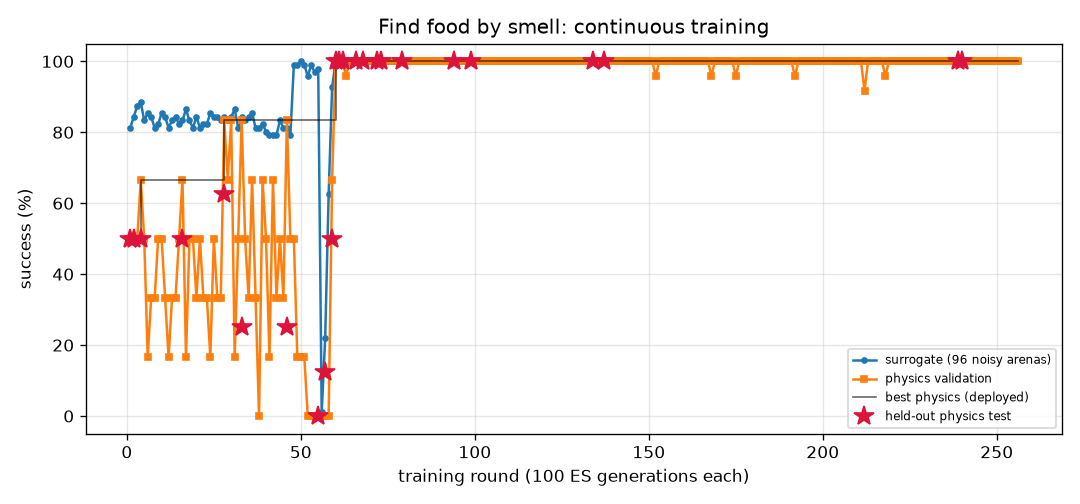
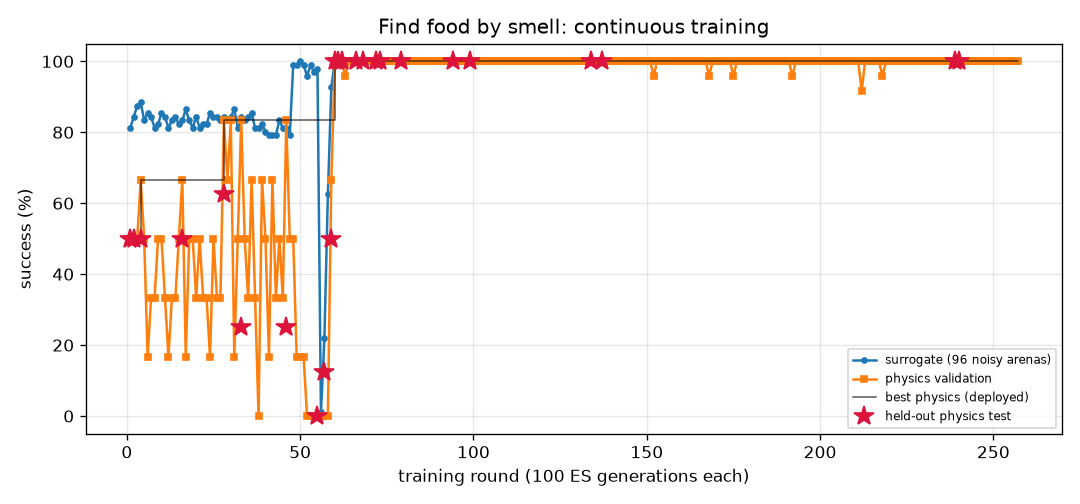
FlyLab: continuous training progress
- walk_forward: optimal, physics val 100% of 24, round 411
- turn: optimal, physics val 100% of 24, round 1110
- goto: optimal, physics val 100% of 24, round 317
- odor_seek: optimal, physics val 100% of 24, round 257
- odor_avoid: optimal, physics val 100% of 24, round 962
- light_seek: optimal, physics val 100% of 24, round 518
- light_avoid: optimal, physics val 100% of 24, round 681

diff --git a/projects/09_flylab/training/turn/REPORT.md b/projects/09_flylab/training/turn/REPORT.md
@@ -1,14 +1,14 @@
 # Turn in place (`turn`) — training report
 
-*Auto-generated by `train_brains.py`, last updated 2026-11-17T21:16:02.*
+*Auto-generated by `train_brains.py`, last updated 2026-11-18T01:04:39.*
 
 ![curve](curve.png)
 
 | | |
 |---|---|
-| rounds | 1107 |
-| ES generations | 110700 |
-| physics runs | 26814 |
+| rounds | 1110 |
+| ES generations | 111000 |
+| physics runs | 26886 |
 | status | **optimal** |
 | best brain | round 80: physics validation **100%** on 24 arenas, surrogate 100% |
 | held-out physics test | **97%** on 32 unseen arenas (95% CI 84%-99%) (errors: [1.6, 3.3, 6.3, 3.7, 1.1, 0.4, 2.4, 2.9, 0.1, 2.6, 0.5, 2.7, 1.5, 3.1, 4.5, 0.2, 0.5, 1.1, 2.0, 4.4, 2.8, 3.2, 0.3, 2.2, 0.5, 3.0, 0.3, 5.4, 0.4, 1.0, 4.7, 10.7]) |
@@ -17,9 +17,6 @@ Physics error per arena: deg from target heading (< 20 = success).
 
 | round | level | gens | sigma | surrogate | physics val | val errors | test | note |
 |---:|---:|---:|---:|---:|---:|---|---:|---|
-| 1068 | 3 | 106800 | 0.025 | 98% | 83% | [3.5, 1.4, 5.0, 0.8, 2.5, 0.1, 6.4, 8.3, 6.2, 1.3, 5.6, 1.0, 2.3, 1.8, 4.7, 0.8, 1.0, 1.9, 0.9, 1.1, 5.2, 2.6, 6.9, 6.9] |  | restart from best |
-| 1069 | 3 | 106900 | 0.024 | 100% | 62% | [4.2, 0.3, 2.8, 0.7, 2.1, 0.0, 5.8, 2.7, 3.5, 0.5, 5.7, 0.1, 1.1, 2.7, 5.1, 0.5, 0.4, 5.1, 1.3, 0.5, 7.6, 2.2, 6.5, 5.2] |  |  |
-| 1070 | 3 | 107000 | 0.024 | 98% | 92% | [9.3, 11.0, 6.5, 6.1, 2.8, 4.0, 2.1, 2.0, 1.8, 2.8, 2.2, 3.9, 4.1, 2.9, 1.8, 1.6, 3.5, 1.2, 1.1, 3.4, 8.1, 0.6, 2.6, 1.7] |  |  |
 | 1071 | 3 | 107100 | 0.025 | 99% | 83% | [4.9, 10.7, 9.2, 3.6, 3.0, 5.7, 4.4, 2.2, 1.8, 1.4, 1.8, 3.5, 1.8, 3.3, 2.2, 0.4, 2.7, 0.9, 2.5, 2.6, 5.7, 0.2, 2.7, 7.0] |  |  |
 | 1072 | 3 | 107200 | 0.025 | 100% | 92% | [2.9, 1.1, 5.8, 3.3, 2.7, 2.2, 5.9, 5.8, 6.4, 1.8, 6.1, 2.2, 1.4, 1.5, 3.5, 2.5, 2.3, 2.7, 2.9, 2.4, 3.4, 1.8, 7.7, 6.3] |  | restart from best |
 | 1073 | 3 | 107300 | 0.024 | 99% | 92% | [3.2, 8.2, 1.1, 3.7, 2.3, 1.3, 3.8, 0.6, 3.9, 1.7, 4.1, 0.7, 2.5, 2.0, 3.5, 1.2, 1.1, 1.2, 1.7, 1.6, 5.8, 0.4, 2.5, 2.4] |  |  |
@@ -57,3 +54,6 @@ Physics error per arena: deg from target heading (< 20 = success).
 | 1105 | 3 | 110500 | 0.024 | 99% | 58% | [4.5, 2.1, 2.8, 1.5, 1.0, 3.4, 7.4, 2.3, 4.9, 1.6, 4.8, 0.9, 0.1, 4.5, 5.2, 0.2, 1.0, 0.5, 0.1, 0.0, 6.7, 1.4, 5.4, 7.2] |  |  |
 | 1106 | 3 | 110600 | 0.025 | 99% | 75% | [1.0, 6.0, 7.3, 1.8, 1.0, 116.5, 8.3, 11.4, 8.8, 1.7, 7.2, 2.9, 0.2, 0.5, 7.0, 4.2, 4.1, 4.1, 5.2, 7.7, 1.9, 3.7, 8.5, 8.3] |  |  |
 | 1107 | 3 | 110700 | 0.025 | 100% | 88% | [3.2, 8.7, 9.7, 6.5, 2.7, 5.6, 9.2, 8.1, 9.6, 4.2, 7.7, 6.8, 5.0, 3.5, 6.9, 4.5, 7.2, 6.5, 3.9, 5.4, 1.6, 6.1, 9.0, 9.3] |  |  |
+| 1108 | 3 | 110800 | 0.024 | 99% | 100% | [11.3, 5.6, 9.5, 1.6, 1.4, 1.7, 7.8, 10.1, 8.9, 13.8, 5.9, 6.8, 2.7, 1.9, 4.9, 13.8, 6.5, 5.2, 12.6, 6.2, 2.6, 5.5, 8.9, 8.7] |  | restart from best |
+| 1109 | 3 | 110900 | 0.024 | 99% | 96% | [6.6, 9.0, 5.4, 4.9, 2.2, 3.4, 2.2, 0.1, 3.1, 0.9, 2.0, 2.4, 0.9, 5.2, 1.8, 2.1, 2.2, 1.6, 2.6, 2.9, 5.4, 0.5, 3.1, 3.2] |  |  |
+| 1110 | 3 | 111000 | 0.025 | 99% | 75% | [2.3, 7.2, 0.6, 1.3, 4.1, 1.6, 5.3, 8.0, 5.8, 0.8, 5.5, 0.9, 3.9, 2.1, 3.7, 2.1, 0.2, 2.1, 7.4, 0.2, 4.8, 3.8, 4.2, 7.0] |  |  |

diff --git a/projects/09_flylab/training/odor_seek/REPORT.md b/projects/09_flylab/training/odor_seek/REPORT.md
@@ -1,14 +1,14 @@
 # Find food by smell (`odor_seek`) — training report
 
-*Auto-generated by `train_brains.py`, last updated 2026-11-18T00:06:28.*
+*Auto-generated by `train_brains.py`, last updated 2026-11-18T00:32:32.*
 
 ![curve](curve.png)
 
 | | |
 |---|---|
-| rounds | 256 |
-| ES generations | 25600 |
-| physics runs | 5638 |
+| rounds | 257 |
+| ES generations | 25700 |
+| physics runs | 5662 |
 | status | **optimal** |
 | best brain | round 240: physics validation **100%** on 24 arenas, surrogate 100% |
 | held-out physics test | **100%** on 32 unseen arenas (95% CI 89%-100%) (errors: [0.02, 0.03, 0.03, 0.05, 0.04, 0.05, 0.06, 0.07, 0.09, 0.05, 0.05, 0.01, 0.12, 0.03, 0.07, 0.08, 0.02, 0.06, 0.03, 0.04, 0.0, 0.01, 0.09, 0.05, 0.04, 0.01, 0.07, 0.05, 0.08, 0.05, 0.05, 0.02]) |
@@ -17,7 +17,6 @@ Physics error per arena: mm from target at the end (< 1.5 and standing still = s
 
 | round | level | gens | sigma | surrogate | physics val | val errors | test | note |
 |---:|---:|---:|---:|---:|---:|---|---:|---|
-| 217 | 3 | 21700 | 0.024 | 100% | 100% | [0.21, 0.18, 0.06, 0.18, 0.12, 0.16, 0.06, 0.14, 0.16, 0.12, 0.11, 0.16, 0.16, 0.14, 0.21, 0.17, 0.16, 0.07, 0.13, 0.15, 0.13, 0.14, 0.2, 0.12] |  | restart from best |
 | 218 | 3 | 21800 | 0.024 | 100% | 96% | [0.16, 0.04, 0.06, 0.03, 0.05, 0.14, 0.11, 0.13, 0.04, 0.06, 0.09, 0.06, 0.05, 15.35, 0.08, 0.13, 0.22, 0.03, 0.07, 0.07, 0.07, 0.06, 0.08, 0.03] |  |  |
 | 219 | 3 | 21900 | 0.024 | 100% | 100% | [0.16, 0.28, 0.18, 0.2, 0.24, 0.22, 0.19, 0.19, 0.19, 0.19, 0.21, 0.26, 0.21, 0.2, 0.12, 0.16, 0.17, 0.26, 0.22, 0.17, 0.24, 0.16, 0.13, 0.23] |  |  |
 | 220 | 3 | 22000 | 0.024 | 100% | 100% | [0.19, 0.22, 0.14, 0.17, 0.24, 0.2, 0.3, 0.19, 0.17, 0.18, 0.13, 0.28, 0.19, 0.21, 0.26, 0.28, 0.18, 0.18, 0.21, 0.26, 0.18, 0.2, 0.21, 0.27] |  |  |
@@ -57,3 +56,4 @@ Physics error per arena: mm from target at the end (< 1.5 and standing still = s
 | 254 | 3 | 25400 | 0.024 | 100% | 100% | [0.04, 0.13, 0.02, 0.09, 0.08, 0.12, 0.12, 0.13, 0.08, 0.08, 0.12, 0.04, 0.06, 0.12, 0.07, 0.18, 0.08, 0.12, 0.09, 0.06, 0.07, 0.16, 0.07, 0.08] |  |  |
 | 255 | 3 | 25500 | 0.024 | 100% | 100% | [0.22, 0.21, 0.13, 0.17, 0.16, 0.21, 0.16, 0.21, 0.15, 0.16, 0.14, 0.24, 0.11, 0.15, 0.23, 0.15, 0.23, 0.13, 0.2, 0.21, 0.21, 0.12, 0.16, 0.13] |  |  |
 | 256 | 3 | 25600 | 0.024 | 100% | 100% | [0.04, 0.18, 0.16, 0.19, 0.19, 0.2, 0.2, 0.17, 0.19, 0.21, 0.2, 0.1, 0.12, 0.14, 0.2, 0.23, 0.1, 0.18, 0.21, 0.19, 0.16, 0.18, 0.1, 0.14] |  | restart from best |
+| 257 | 3 | 25700 | 0.024 | 100% | 100% | [0.16, 0.19, 0.19, 0.13, 0.22, 0.18, 0.16, 0.13, 0.15, 0.12, 0.13, 0.16, 0.16, 0.14, 0.15, 0.12, 0.1, 0.09, 0.19, 0.12, 0.22, 0.19, 0.15, 0.19] |  |  |

diff --git a/projects/09_flylab/training/goto/REPORT.md b/projects/09_flylab/training/goto/REPORT.md
@@ -1,14 +1,14 @@
 # Go to a location (`goto`) — training report
 
-*Auto-generated by `train_brains.py`, last updated 2026-11-18T00:06:20.*
+*Auto-generated by `train_brains.py`, last updated 2026-11-18T00:28:36.*
 
 ![curve](curve.png)
 
 | | |
 |---|---|
-| rounds | 316 |
-| ES generations | 31600 |
-| physics runs | 7534 |
+| rounds | 317 |
+| ES generations | 31700 |
+| physics runs | 7558 |
 | status | **optimal** |
 | best brain | round 176: physics validation **100%** on 24 arenas, surrogate 100% |
 | held-out physics test | **100%** on 32 unseen arenas (95% CI 89%-100%) (errors: [0.2, 0.32, 0.19, 0.24, 0.18, 0.2, 0.19, 0.17, 0.22, 0.23, 0.23, 0.26, 0.2, 0.19, 0.24, 0.23, 0.22, 0.24, 0.2, 0.22, 0.2, 0.2, 0.26, 0.19, 0.22, 0.18, 0.26, 0.22, 0.2, 0.26, 0.23, 0.23]) |
@@ -17,7 +17,6 @@ Physics error per arena: mm from target at the end (< 1.5 and standing still = s
 
 | round | level | gens | sigma | surrogate | physics val | val errors | test | note |
 |---:|---:|---:|---:|---:|---:|---|---:|---|
-| 277 | 3 | 27700 | 0.024 | 100% | 100% | [0.53, 0.52, 0.43, 0.51, 0.41, 0.46, 0.48, 0.53, 0.57, 0.43, 0.43, 0.49, 0.56, 0.46, 0.46, 0.49, 0.55, 0.47, 0.42, 0.56, 0.47, 0.44, 0.54, 0.5] |  |  |
 | 278 | 3 | 27800 | 0.024 | 100% | 100% | [0.57, 0.54, 0.61, 0.56, 0.42, 0.5, 0.55, 0.57, 0.57, 0.47, 0.46, 0.52, 0.59, 0.48, 0.53, 0.5, 0.61, 0.51, 0.44, 0.56, 0.48, 0.48, 0.6, 0.51] |  |  |
 | 279 | 3 | 27900 | 0.024 | 99% | 100% | [0.39, 0.36, 0.29, 0.4, 0.29, 0.36, 0.37, 0.42, 0.41, 0.3, 0.35, 0.39, 0.4, 0.3, 0.28, 0.31, 0.41, 0.36, 0.28, 0.4, 0.29, 0.31, 0.41, 0.39] |  |  |
 | 280 | 3 | 28000 | 0.025 | 99% | 100% | [0.45, 0.39, 0.43, 0.45, 0.36, 0.4, 0.4, 0.43, 0.44, 0.35, 0.38, 0.44, 0.46, 0.31, 0.42, 0.34, 0.47, 0.39, 0.35, 0.48, 0.32, 0.39, 0.41, 0.42] |  | restart from best |
@@ -57,3 +56,4 @@ Physics error per arena: mm from target at the end (< 1.5 and standing still = s
 | 314 | 3 | 31400 | 0.025 | 99% | 100% | [0.68, 0.65, 0.54, 0.52, 0.53, 0.51, 0.67, 0.54, 0.54, 0.51, 0.49, 0.51, 0.63, 0.5, 0.55, 0.56, 0.66, 0.55, 0.51, 0.61, 0.55, 0.5, 0.63, 0.53] |  |  |
 | 315 | 3 | 31500 | 0.025 | 99% | 100% | [0.53, 0.52, 0.37, 0.38, 0.4, 0.39, 0.48, 0.42, 0.45, 0.37, 0.37, 0.37, 0.48, 0.4, 0.43, 0.45, 0.52, 0.41, 0.37, 0.45, 0.41, 0.36, 0.5, 0.38] |  |  |
 | 316 | 3 | 31600 | 0.025 | 100% | 100% | [0.56, 0.55, 0.43, 0.41, 0.44, 0.4, 0.57, 0.45, 0.44, 0.42, 0.43, 0.41, 0.5, 0.43, 0.47, 0.55, 0.54, 0.44, 0.43, 0.48, 0.5, 0.42, 0.49, 0.41] |  | restart from best |
+| 317 | 3 | 31700 | 0.024 | 100% | 100% | [0.52, 0.57, 0.53, 0.57, 0.51, 0.53, 0.57, 0.56, 0.57, 0.53, 0.49, 0.55, 0.56, 0.53, 0.6, 0.58, 0.55, 0.52, 0.51, 0.6, 0.55, 0.56, 0.54, 0.55] |  |  |

diff --git a/projects/09_flylab/training/TRAINING.md b/projects/09_flylab/training/TRAINING.md
@@ -1,15 +1,15 @@
 # FlyLab brains — continuous training log
 
-*Auto-generated by `train_brains.py`, last updated 2026-11-18T00:06:28.*
+*Auto-generated by `train_brains.py`, last updated 2026-11-18T01:04:39.*
 
 Every skill has its own brain and its own training process: surrogate ES rounds, physics validation in MuJoCo, keep-the-best selection, and a held-out physics test that is never used for selection. See each skill's report for its full round-by-round history. Mastery is progressive: passing a level (100% physics validation, >=95% surrogate) doubles the validation and test arena sets; a brain is **optimal** once it holds up at level 3 (>=95% of 24 validation arenas) AND scores >=90% on the 32 held-out test arenas. Test columns show 95% Wilson confidence intervals.
 
 | skill | rounds | ES generations | physics runs | surrogate | physics val | **physics test** | status |
 |---|---:|---:|---:|---:|---:|---:|---|
 | [Walk forward](walk_forward/REPORT.md) | 411 | 41100 | 9878 | 100% | 100% of 24 | 100% of 32 (CI 89-100%) | **optimal** |
-| [Turn in place](turn/REPORT.md) | 1107 | 110700 | 26814 | 100% | 100% of 24 | 97% of 32 (CI 84-99%) | **optimal** |
-| [Go to a location](goto/REPORT.md) | 316 | 31600 | 7534 | 100% | 100% of 24 | 100% of 32 (CI 89-100%) | **optimal** |
-| [Find food by smell](odor_seek/REPORT.md) | 256 | 25600 | 5638 | 100% | 100% of 24 | 100% of 32 (CI 89-100%) | **optimal** |
+| [Turn in place](turn/REPORT.md) | 1110 | 111000 | 26886 | 100% | 100% of 24 | 97% of 32 (CI 84-99%) | **optimal** |
+| [Go to a location](goto/REPORT.md) | 317 | 31700 | 7558 | 100% | 100% of 24 | 100% of 32 (CI 89-100%) | **optimal** |
+| [Find food by smell](odor_seek/REPORT.md) | 257 | 25700 | 5662 | 100% | 100% of 24 | 100% of 32 (CI 89-100%) | **optimal** |
 | [Escape a bad smell](odor_avoid/REPORT.md) | 962 | 96200 | 20394 | 97% | 100% of 24 | 97% of 32 (CI 84-99%) | **optimal** |
 | [Walk toward light](light_seek/REPORT.md) | 518 | 51800 | 9312 | 100% | 100% of 24 | 100% of 32 (CI 89-100%) | **optimal** |
 | [Hide from light](light_avoid/REPORT.md) | 681 | 68100 | 16616 | 100% | 100% of 24 | 100% of 32 (CI 89-100%) | **optimal** |
